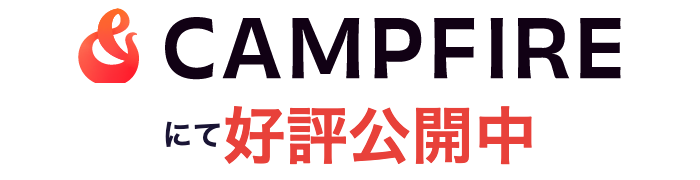
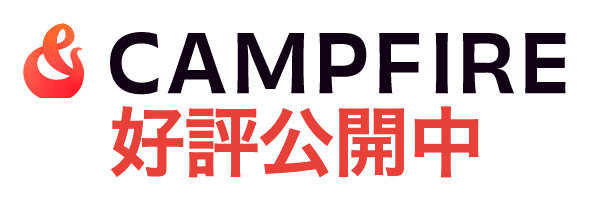
CAMPFIRE のバッジを2種類にして、絵に合うほうをAIに選ばせる
2026-10-18 の決め:
  ・白い板の余白が広すぎた → 中身を板いっぱいに詰める
  ・文字を傾けるなら、ロゴも白い板も同じ角度で傾ける
  ・「にて」は入れない
  ・まっすぐ版と傾き版の両方を使えるようにし、状況に応じてAIが選ぶ

- make-campfire-badge.mjs が2枚を作る。campfire-koubyo.png（まっすぐ）と
  campfire-koubyo-tilt.png（-4度）。**白い角丸の板まで焼き込む**ので、
  板の大きさ・余白・傾きがAIの解釈でぶれない
- LOGO_FILE が配列を取れるようにした。札は
  【掲載先ロゴ campfire-koubyo campfire-koubyo-tilt】になり、
  logoRefOf が2枚とも見本の先頭に渡す
- 選び方も文で渡す: 静かで構図が整った面は1枚目、数字が大きく勢いのある
  面は2枚目。**どちらか1枚だけ**を使い、混ぜない。迷ったら1枚目

diff --git a/assets/platform/README.md b/assets/platform/README.md
@@ -58,13 +58,18 @@
 - 注意: greenfunding と同じ。**配布ページと使用条件の文書は見つかっていない**
   （運営はメディアジーン、掲載は CAMPFIRE 上）。同じく利用者の判断で登録した。
 
-## campfire-koubyo.png（配布素材を**改変**したもの）
+## campfire-koubyo.png / campfire-koubyo-tilt.png（配布素材を**改変**したもの）
 
-- 元: `campfire.png` の上段（社名）だけを切り出し、下に
-  「にて好評公開中」を自分で組んだもの（700×180）
-  - 「好評公開中」は赤 #E8413A（素材の & から採った）、「にて」は小さく黒
+- 元: `campfire.png` の上段（社名）だけを切り出し、下に「好評公開中」を
+  自分で組み、**白い角丸の板ごと**1枚にしたもの（板 583×195）
+  - 「好評公開中」は赤 #E8413A（素材の & から採った）・76px・字間を詰める
+  - 「にて」は入れない（2026-10-18）
   - どちらの行も**見た目の中央**にそろえる。素材は右に余白があり、
     画像の中心で合わせると字が左に寄るので、字のある所まで切ってから置く
+  - 板の余白は中身の高さの12%。周りに白い面を残さない
+  - `-tilt` は、ロゴ・文字・板をまとめて -4度 傾けた版
+- 2種類あるのは、絵の調子に合わせて**絵を作るAIが選ぶ**ため
+  （静かな構図→まっすぐ／勢いのある面→傾き。迷ったらまっすぐ）
 - 作り直し: `node tools/make-campfire-badge.mjs`
 - 使う所: LINEの台（リッチメニュー・リッチメッセージ）の生成。
   `tools/line-assets.mjs` の `LOGO_FILE` が campfire をこれに差し替えている
